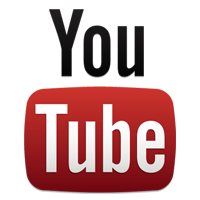
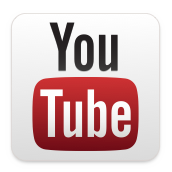
More work on youtube

diff --git a/epymc/plugins/onlinevideo/youtube/youtube.py b/epymc/plugins/onlinevideo/youtube/youtube.py
@@ -19,23 +19,28 @@
 # along with this program.  If not, see <http://www.gnu.org/licenses/>.
 
 import os, sys, re
+from bs4 import BeautifulSoup
 
 from epymc.extapi.onlinevideo import api_version, user_agent, state_get, \
-   fetch_url, play_url, item_add, call_ydl, \
+   fetch_url, play_url, item_add, call_ydl, local_resource, \
    ACT_NONE, ACT_FOLDER, ACT_MORE, ACT_PLAY, ACT_SEARCH
 
 
+ytb_base = 'http://www.youtube.com'
+api_base = 'http://gdata.youtube.com/feeds/api/standardfeeds/'
+ytb_icon = local_resource(__file__, 'youtube.png')
 ITEMS_PER_PAGE = 50
 
+ST_HOME = 0
+ST_PLAY = 1
+ST_VIDEO_LIST_JSONC = 2
+ST_SEARCH_JSONC = 3
+ST_CHN_CATEGORIES = 10
+ST_CHN_CHANNELS = 11
+ST_CHN_VIDEOS = 12
+
+
 STATE, URL = state_get()
-
-
-
-
-# youtube api reference:
-# https://developers.google.com/youtube/2.0/developers_guide_protocol
-
-
 
 
 def seconds_to_time_string(seconds):
@@ -49,43 +54,89 @@ def seconds_to_time_string(seconds):
       return "%d:%02d" % (m,s)
 
 
-CATS = ['Film', 'Autos', 'Music', 'Animals', 'Sports', 'Shortmov', 'Travel',
-'Games', 'Videoblog', 'People', 'Comedy', 'Entertainment', 'News', 'Howto',
-'Education', 'Tech', 'Nonprofit', 'Movies', 'Shows', 'Trailers']
-
-
 # this is the first page, show fixed categories
-if STATE == 0:
-   # b = 'http://gdata.youtube.com/feeds/api/standardfeeds/IT/'
-   std = 'http://gdata.youtube.com/feeds/api/standardfeeds/'
-   e = 'v=2&alt=jsonc&max-results=' + str(ITEMS_PER_PAGE)
-   item_add(4, 'Search videos', 'search', None, action=ACT_SEARCH)
-   item_add(4, 'Search channels (TODO)', 'search', None, action=ACT_SEARCH)
-   item_add(2, 'Categories :/', 'cats', None, action=ACT_FOLDER)
-   item_add(1, 'Top rated', std+'top_rated?'+e, None, action=ACT_FOLDER)
-   item_add(1, 'Top favorites', std+'top_favorites?'+e, None, action=ACT_FOLDER)
-   item_add(1, 'Most shared', std+'most_shared?'+e, None, action=ACT_FOLDER)
-   item_add(1, 'Most popular', std+'most_popular?'+e, None, action=ACT_FOLDER)
-   # item_add(1, 'Most recent', std+'most_recent?'+e, None, action=ACT_FOLDER)
-   item_add(1, 'Most discussed', std+'most_discussed?'+e, None, action=ACT_FOLDER)
-   item_add(1, 'Most viewed', std+'most_viewed?'+e, None, action=ACT_FOLDER)
-   
+if STATE == ST_HOME:
+   item_add(ST_SEARCH_JSONC, 'Search videos', 'search', None, action=ACT_SEARCH)
+   item_add(ST_CHN_CATEGORIES, 'Channels by categories',
+            ytb_base+'/channels', None, action=ACT_FOLDER)
+   item_add(ST_VIDEO_LIST_JSONC, 'Top rated',
+            api_base+'top_rated?v=2&alt=jsonc&max-results='+str(ITEMS_PER_PAGE),
+            None, action=ACT_FOLDER)
 
 
-# show the list of categories
-elif STATE == 2:
-   std = 'http://gdata.youtube.com/feeds/api/standardfeeds/'
-   e = 'v=2&alt=jsonc&max-results=' + str(ITEMS_PER_PAGE)
-   for cat in CATS:
-      url = '%stop_rated_%s?%s' % (std, cat, e)
-      item_add(1, cat, url, None, action=ACT_FOLDER)
+###############################################################################
+### youtube site scraper ######################################################
+###############################################################################
 
+# 1. show the list of channels categories
+elif STATE == ST_CHN_CATEGORIES:
+   soup = fetch_url(URL, parser='bs4')
+   for cat in soup.findAll('div', class_='yt-gb-shelf'):
+      try:
+         title = cat.find('span', class_='category-title').string
+         href = cat.find('a', class_='category-title-link')['href']
+         # thumb = cat.find('span', class_='yt-thumb-clip').img['src']
+
+         video_count = cat.find('span', class_='channel-count').string
+         info = u'<title>Channels: </title>{}<br>'.format(video_count)
+
+         item_add(ST_CHN_CHANNELS, title, ytb_base+href, poster=ytb_icon, info=info)
+      except:
+         pass
+
+
+# 2. show a list of channels in a given categories
+elif STATE == ST_CHN_CHANNELS:
+   soup = fetch_url(URL, parser='bs4')
+   for cha in soup.findAll('div', class_='yt-gb-shelf-hero'):
+      try:
+         title_span = cha.find('span', class_='qualified-channel-title-text')
+         href = title_span.a['href']
+         title = title_span.a.string
+         thumb = cha.find('span', class_='yt-thumb-clip').img['src']
+
+         description = cha.find('p', class_='description').string.strip()
+         info = u'{}<br>'.format(description)
+         
+         item_add(ST_CHN_VIDEOS, title, ytb_base+href+'/videos?flow=list&sort=dd',
+                  poster=thumb, info=info)
+      except:
+         pass
+
+
+# 3. show a list of videos in a given channel
+elif STATE == ST_CHN_VIDEOS:
+   soup = fetch_url(URL, parser='bs4')
+   for item in soup.findAll('li', class_='channels-browse-content-list-item'):
+      try:
+         title_h3 = item.find('h3', class_='yt-lockup-title')
+         href = title_h3.a['href']
+         title = title_h3.a['title']
+         thumb = 'http:' + item.find('span', class_='yt-thumb-clip').img['data-thumb']
+
+         description = item.find('div', class_='yt-lockup-description')
+         description = ''.join([s for s in description.stripped_strings])
+         metas = item.find('div', class_='yt-lockup-meta').findAll('li')
+         meta = ''
+         for m in metas:
+            meta += m.string + '<br>'
+         info = u'{}<br>{}<br>'.format(meta, description)
+
+         item_add(ST_PLAY, title, ytb_base+href, poster=thumb, info=info)
+      except:
+         pass
+
+
+###############################################################################
+### youtube api v2 (old and deprecated) #######################################
+# https://developers.google.com/youtube/2.0/developers_guide_protocol
+###############################################################################
 
 # parse a list of video (jsonc)
-elif STATE == 1 or STATE == 4:
+elif STATE in (ST_VIDEO_LIST_JSONC, ST_SEARCH_JSONC):
 
    # STATE 4 = search query in place of the url
-   if STATE == 4:
+   if STATE == ST_SEARCH_JSONC:
       print "search for:" , URL
       URL = 'http://gdata.youtube.com/feeds/api/videos?q=%s&v=2&alt=jsonc&max-results=%d' % (URL, ITEMS_PER_PAGE)
 
@@ -125,10 +176,10 @@ elif STATE == 1 or STATE == 4:
                  rat_avg, rat_max, viewed, likes,
                  desc.replace('\r\n', '<br>'))
 
-         item_add(3, title, url, info=info, icon=None, poster=poster)
+         item_add(ST_PLAY, title, url, info=info, icon=None, poster=poster)
 
       except:
-         item_add(0, 'error parsing data', None)
+         item_add(ST_HOME, 'error parsing data', None)
 
    total_items = data['data']['totalItems']
    start_index = data['data']['startIndex']
@@ -138,63 +189,13 @@ elif STATE == 1 or STATE == 4:
       if 'start-index' in URL:
          URL = re.sub('&start-index=[0-9]+', '', URL)
       URL += '&start-index=%d' % (start_index + ITEMS_PER_PAGE)
-      item_add(1, 'more of the %d results...' % (total_items), URL, action=ACT_MORE)
-
- # try:
-      # nextPage = soup.find('span', attrs={'class' : "next"})('a')[1]['href']
-      # item_add(1, 'More items...', 'http://www.zapiks.com' + nextPage, icon='icon/next', action=ACT_MORE)
-   # except:
-      # pass
+      item_add(ST_VIDEO_LIST_JSONC, 'more of the %d results...' % (total_items), URL, action=ACT_MORE)
 
 
-# parse a list of video (json)
-elif STATE == 111: # __UNUSED__
-   data = fetch_url(URL, parser='json')
+# play a video using youtube-dl to get the real url   \o/
+elif STATE == ST_PLAY:
+   play_url(call_ydl(URL))
 
-   # see https://developers.google.com/youtube/2.0/developers_guide_jsonc
-   for e in data['feed']['entry']:
-      try:
-         author = e['author'][0]['name']['$t']
-         title = e['title']['$t']
-         desc = e['media$group']['media$description']['$t']
-         rat_max = e['gd$rating']['max']
-         rat_avg = e['gd$rating']['average']
-         duration = e['media$group']['yt$duration']['seconds']
-         videoid = e['media$group']['yt$videoid']['$t']
-         viewed = e['yt$statistics']['viewCount']
-         favorited = e['yt$statistics']['favoriteCount']
-         likes = e['yt$rating']['numLikes']
-         dislikes = e['yt$rating']['numDislikes']
-         published = e['published']['$t']
-
-         for media in e['media$group']['media$content']:
-            if media['medium'] == 'video' and media['expression'] == 'full':
-               if media['yt$format'] == 1:
-                  url = media['url']
-
-         for t in e['media$group']['media$thumbnail']:
-            if t['yt$name'] == 'default':
-               icon = t['url']
-            elif t['yt$name'] == 'hqdefault':
-               poster = t['url']
-
-         info = '<hilight>Author:</> %s<br>' \
-                '<hilight>Published:</> %s<br>' \
-                '<hilight>Duration:</> %s<br>' \
-                '<hilight>Rating:</> %.1f/%d<br>' \
-                '<hilight>Viewed:</> %s  <hilight>Likes: </>+%s -%s<br>' \
-                '%s' % \
-                (author, published, 
-                 seconds_to_time_string(duration),
-                 rat_avg, rat_max, viewed, likes, dislikes,
-                 desc.replace('\r\n', '<br>'))
-         item_add(2, title, url, info=info, icon=None, poster=poster, action=ACT_PLAY)
-      except:
-         item_add(0, 'error parsing data', None)
-
-
-elif STATE == 3:
-   play_url(call_ydl(URL)) # run youtube-dl to get the real video url   \o/
 
 """
    # now make the list of related videos

diff --git a/epymc/extapi/onlinevideo.py b/epymc/extapi/onlinevideo.py
@@ -43,6 +43,9 @@ def play_url(url):
    """ TODO doc """
    print('PLAY!' + url)
 
+def local_resource(_file_, res):
+   return os.path.join(os.path.dirname(_file_), res)
+
 def fetch_url(url, parser=None):
    """ TODO doc """
    req = urllib2.Request(url)
